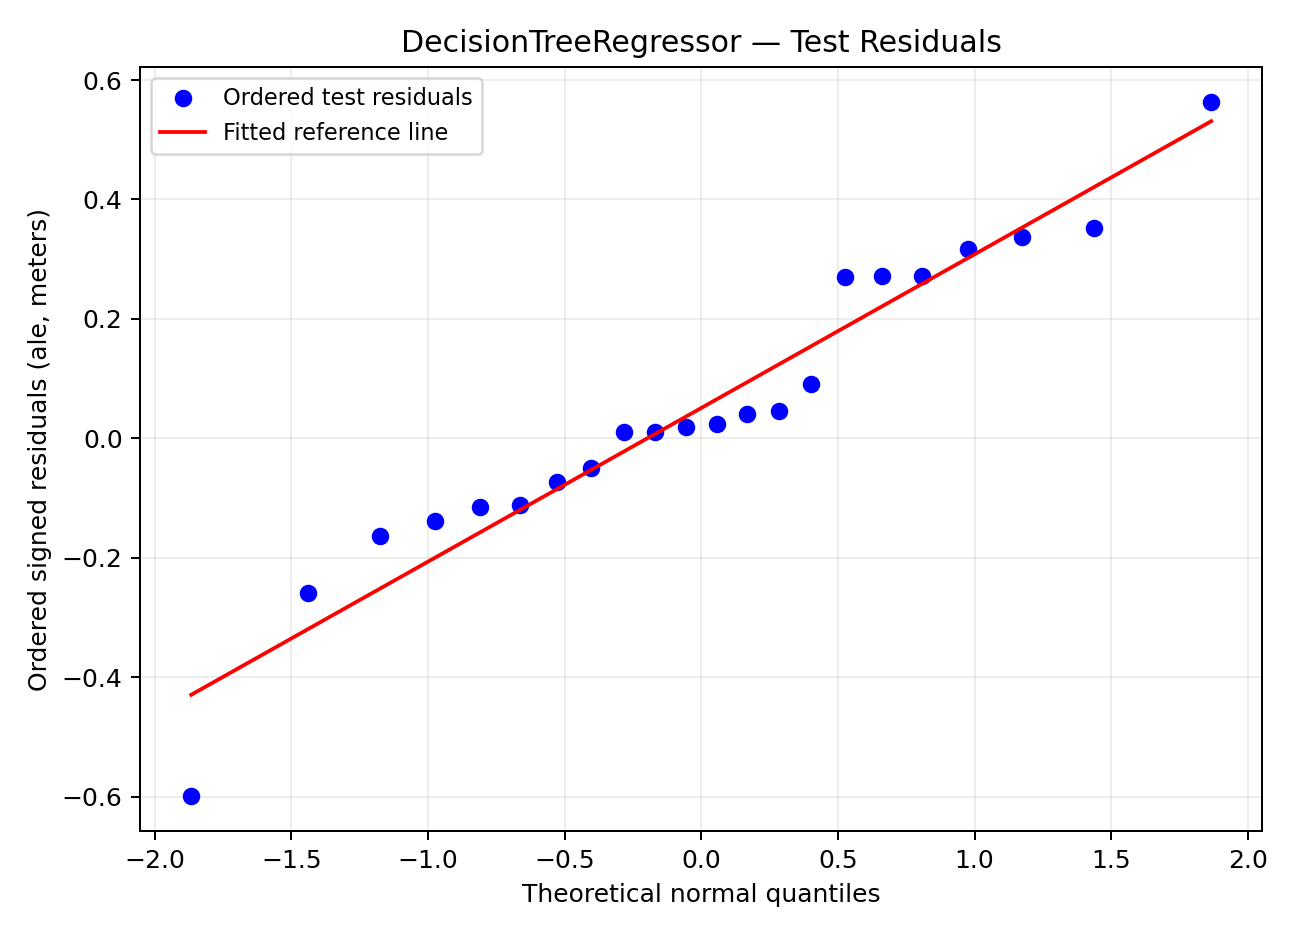
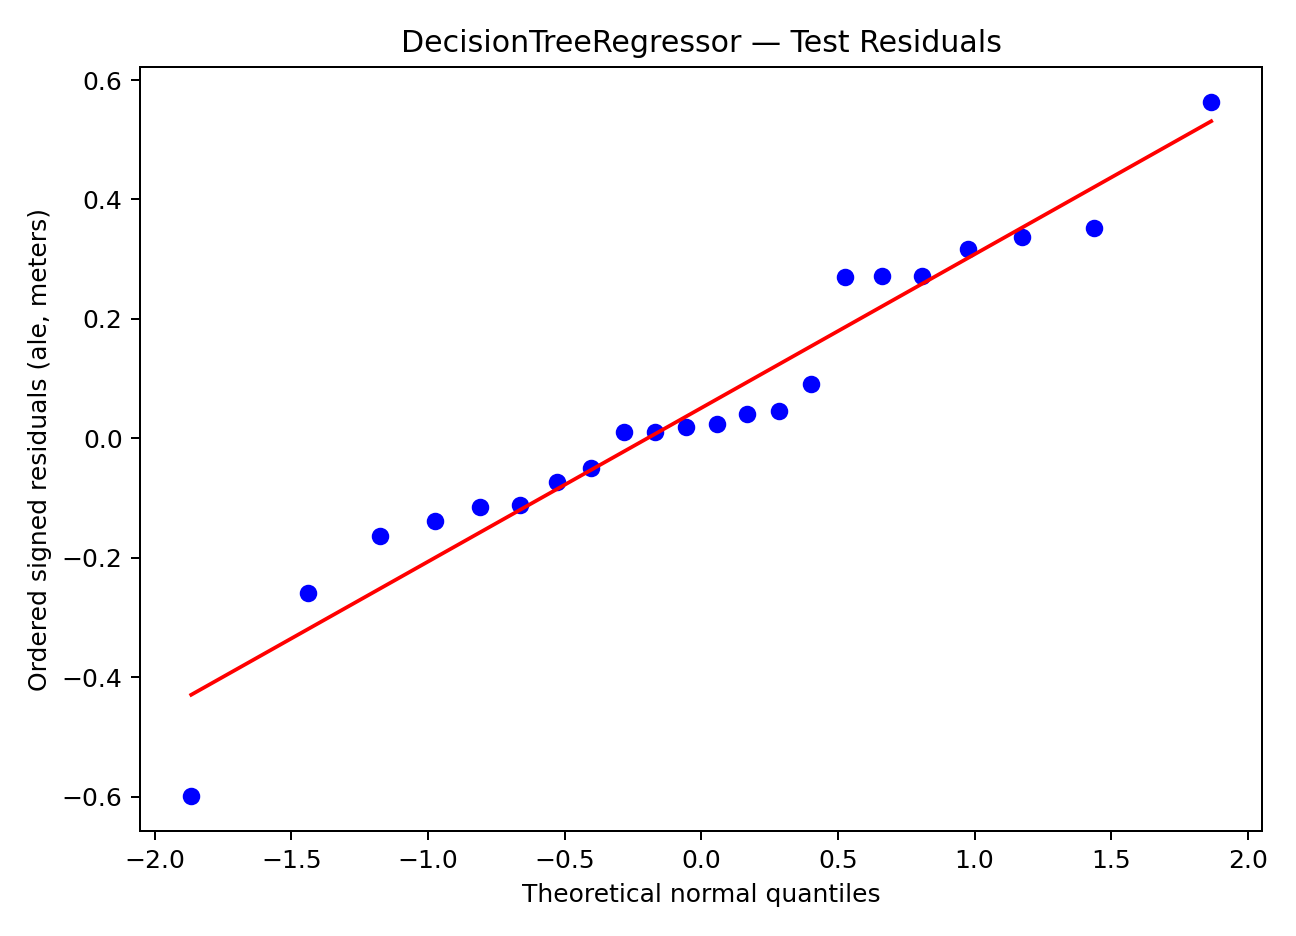
Trim homework scripts to the fixed experiments

Changed region(s): [[0.1235, 0.062, 0.3704, 0.1859]]

diff --git a/homework_1/Q5.py b/homework_1/Q5.py
@@ -1,15 +1,12 @@
 from pathlib import Path
-import hashlib
 
 import numpy as np
 import pandas as pd
-import sklearn
 
 import jax
 jax.config.update("jax_enable_x64", True)
 jax.config.update("jax_platforms", "cpu")
 import jax.numpy as jnp
-import jaxlib
 import optax
 import jax.scipy.stats as jstats
 from sklearn.datasets import load_breast_cancer
@@ -19,13 +16,12 @@ from sklearn.model_selection import train_test_split
 from sklearn.preprocessing import StandardScaler
 
 CONFIG = dict(seed=42, dtype=jnp.float64, learning_rate=0.01, batch_size=32,
-              epochs=1000, momentum=0, weight_decay=0, probability_clip_eps=1e-12)
+              epochs=1000, momentum=0, probability_clip_eps=1e-12)
 
 def logistic_probability(z):
     return jax.nn.sigmoid(z)
 
 def binary_cross_entropy(p, y):
-    assert p.ndim == y.ndim == 1 and p.shape == y.shape
     p_safe = jnp.clip(p, CONFIG['probability_clip_eps'], 1 - CONFIG['probability_clip_eps'])
     return -jnp.mean(y * jnp.log(p_safe) + (1 - y) * jnp.log(1 - p_safe))
 
@@ -39,132 +35,75 @@ def probit_loss(z, y):
     return binary_cross_entropy(probit_probability(z), y)
 
 def mse_loss(prediction, y):
-    assert prediction.ndim == y.ndim == 1 and prediction.shape == y.shape
     return jnp.mean((y - prediction) ** 2)
 
 def student_t_loss(prediction, y):
-    assert prediction.ndim == y.ndim == 1 and prediction.shape == y.shape
     return -jnp.mean(jstats.t.logpdf(y - prediction, df=5.0, loc=0.0, scale=1.0))
 
 def predict(params, X):
     return X @ params['w'] + params['b']
 
-def all_finite(tree):
-    return jnp.all(jnp.stack([jnp.all(jnp.isfinite(x)) for x in jax.tree_util.tree_leaves(tree)]))
-
-def train(name, X, y, objective):
+def train(X, y, objective):
     X, y = (jnp.asarray(X, dtype=CONFIG['dtype']), jnp.asarray(y, dtype=CONFIG['dtype']))
-    assert X.ndim == 2 and y.ndim == 1 and (X.shape[0] == y.shape[0])
-    if not bool(all_finite((X, y))):
-        raise FloatingPointError(name + ' has non-finite inputs or targets')
     params = {'w': jnp.zeros(X.shape[1], dtype=CONFIG['dtype']), 'b': jnp.array(0.0, dtype=CONFIG['dtype'])}
     optimizer = optax.sgd(learning_rate=CONFIG['learning_rate'], momentum=CONFIG['momentum'])
     state = optimizer.init(params)
     key = jax.random.PRNGKey(CONFIG['seed'])
-    losses = []
 
     def batch_loss(params, X_batch, y_batch):
         return objective(predict(params, X_batch), y_batch)
 
     @jax.jit
     def step(params, state, X_batch, y_batch):
-        loss, gradients = jax.value_and_grad(batch_loss)(params, X_batch, y_batch)
+        _, gradients = jax.value_and_grad(batch_loss)(params, X_batch, y_batch)
         updates, next_state = optimizer.update(gradients, state, params)
         next_params = optax.apply_updates(params, updates)
-        valid = all_finite((predict(params, X_batch), loss, gradients, next_params))
-        return (next_params, next_state, valid)
+        return next_params, next_state
 
-    @jax.jit
-    def full_training_loss(params):
-        prediction = predict(params, X)
-        loss = objective(prediction, y)
-        return (loss, all_finite((prediction, loss)))
-    for epoch in range(CONFIG['epochs']):
+    for _ in range(CONFIG['epochs']):
         key, shuffle_key = jax.random.split(key)
         order = jax.random.permutation(shuffle_key, len(y))
         for start in range(0, len(y), CONFIG['batch_size']):
             indices = order[start:start + CONFIG['batch_size']]
-            params, state, valid = step(params, state, X[indices], y[indices])
-            if not bool(valid):
-                raise FloatingPointError(f'{name}, epoch {epoch + 1}: non-finite batch prediction, loss, gradient, or updated parameter')
-        loss, valid = full_training_loss(params)
-        if not bool(valid):
-            raise FloatingPointError(name + ' has non-finite full-training predictions or loss')
-        losses.append(float(loss))
-    return (params, losses)
+            params, state = step(params, state, X[indices], y[indices])
+    return params
 
 FEATURE_COLUMNS = ["anchor_ratio", "trans_range", "node_density", "iterations"]
 TARGET_COLUMN = "ale"
 CSV_PATH = Path(__file__).resolve().parent / "data" / "mcs_ds_edited_iter_shuffled.csv"
 
 np.random.seed(CONFIG["seed"])
-print("Versions:", {"NumPy": np.__version__, "pandas": pd.__version__,
-                    "sklearn": sklearn.__version__, "JAX": jax.__version__,
-                    "jaxlib": jaxlib.__version__, "Optax": optax.__version__})
-print("SGD configuration:", CONFIG, "; backend:", jax.default_backend(), "; x64:", jax.config.x64_enabled)
-print("test_size:", 0.2, "random_state:", 42, "classification stratify:", True)
 
 cancer = load_breast_cancer()
 Xc = np.asarray(cancer.data, dtype=np.float64)
 yc = np.asarray(cancer.target, dtype=np.int64).reshape(-1)
-print("\nOriginal classification target_names:", cancer.target_names)
-print("Classification X/y shapes:", Xc.shape, yc.shape, "; dtypes:", Xc.dtype, yc.dtype)
-print("Classification missing values:", int(np.isnan(Xc).sum()), int(pd.isna(yc).sum()))
-assert Xc.shape == (569, 30) and np.array_equal(np.unique(yc), [0, 1])
-assert np.isfinite(Xc).all()
 ct, cv = train_test_split(np.arange(len(yc)), test_size=0.2, random_state=42, stratify=yc)
 
-if not CSV_PATH.is_file():
-    raise FileNotFoundError("Included real ALE CSV is missing: " + str(CSV_PATH)
-                            + "; no synthetic data are substituted.")
-csv_bytes = CSV_PATH.read_bytes()
 ale = pd.read_csv(CSV_PATH)
-print("\nALE source: Singh et al. (2020), UCI 844, https://doi.org/10.24432/C5ZP6R, CC BY 4.0")
-print("ALE shape:", ale.shape)
-print("ALE columns:", list(ale.columns))
-print("ALE dtypes:\n", ale.dtypes.to_string(), sep="")
-print("ALE missing values:\n", ale.isna().sum().to_string(), sep="")
-if ale.shape != (107, 6) or list(ale.columns) != FEATURE_COLUMNS + ["ale", "sd_ale"]:
-    raise ValueError("Unexpected ALE shape or schema; inspect the printed values. No data modified.")
-if not all(pd.api.types.is_numeric_dtype(ale[c]) for c in ale.columns):
-    raise TypeError("ALE columns must be numeric; no silent conversion is performed.")
-if ale.isna().any().any() or not np.isfinite(ale.to_numpy(dtype=np.float64)).all():
-    raise ValueError("ALE has missing or non-finite values; no rows are deleted or imputed.")
[1 lines of base64/hex data omitted]
-    raise ValueError("Official ALE CSV differs from the previously validated homework data.")
+print("ALE source: Singh et al. (2020), UCI 844, https://doi.org/10.24432/C5ZP6R, CC BY 4.0")
 Xr = ale.loc[:, FEATURE_COLUMNS].to_numpy(dtype=np.float64)
 yr = ale.loc[:, TARGET_COLUMN].to_numpy(dtype=np.float64).reshape(-1)
-print("Regression features:", FEATURE_COLUMNS, "; target:", TARGET_COLUMN, "; sd_ale ignored")
-print("Regression X/y shapes:", Xr.shape, yr.shape, "; original ale units: meters")
 rt, rv = train_test_split(np.arange(len(yr)), test_size=0.2, random_state=42)
-print("Classification train/test:", len(ct), len(cv), "; regression train/test:", len(rt), len(rv))
 
 c_scaler, r_scaler = StandardScaler().fit(Xc[ct]), StandardScaler().fit(Xr[rt])
 Xct, Xcv = c_scaler.transform(Xc[ct]), c_scaler.transform(Xc[cv])
 Xrt, Xrv = r_scaler.transform(Xr[rt]), r_scaler.transform(Xr[rv])
 yct, ycv, yrt, yrv = yc[ct], yc[cv], yr[rt], yr[rv]
 C0, R0 = LogisticRegression(max_iter=5000), LinearRegression()
-print("\nC0 actual parameters:", C0.get_params())
 C0.fit(Xct, yct)
 R0.fit(Xrt, yrt)
 
-C1, C1_losses = train("C1", Xct, yct, logistic_loss)
-C2, C2_losses = train("C2", Xct, yct, probit_loss)
-R1, R1_losses = train("R1", Xrt, yrt, mse_loss)
-R2, R2_losses = train("R2", Xrt, yrt, student_t_loss)
+C1 = train(Xct, yct, logistic_loss)
+C2 = train(Xct, yct, probit_loss)
+R1 = train(Xrt, yrt, mse_loss)
+R2 = train(Xrt, yrt, student_t_loss)
 
 Xcv_j, Xrv_j = jnp.asarray(Xcv, dtype=CONFIG["dtype"]), jnp.asarray(Xrv, dtype=CONFIG["dtype"])
 p1 = logistic_probability(predict(C1, Xcv_j))
 p2 = probit_probability(predict(C2, Xcv_j))
 r1, r2 = predict(R1, Xrv_j), predict(R2, Xrv_j)
-if not bool(all_finite((p1, p2, r1, r2))):
-    raise FloatingPointError("Non-finite test predictions/probabilities")
 c_predictions = [C0.predict(Xcv), np.asarray(p1 >= 0.5), np.asarray(p2 >= 0.5)]
 r_predictions = [R0.predict(Xrv), np.asarray(r1), np.asarray(r2)]
-for prediction in c_predictions:
-    assert prediction.ndim == 1 and prediction.shape == ycv.shape
-for prediction in r_predictions:
-    assert prediction.ndim == 1 and prediction.shape == yrv.shape and np.isfinite(prediction).all()
 accuracies = [accuracy_score(ycv, prediction) for prediction in c_predictions]
 maes = [mean_absolute_error(yrv, prediction) for prediction in r_predictions]
 classification = pd.DataFrame({"Model": ["C0 sklearn LogisticRegression", "C1 Logistic + BCE + SGD", "C2 Probit + BCE + SGD"],
@@ -179,9 +118,3 @@ print("\n" + result)
 result_dir = Path(__file__).resolve().parent / "results"
 result_dir.mkdir(exist_ok=True)
 (result_dir / "Q5.txt").write_text(result + "\n", encoding="utf-8")
-print("finite_checks: passed")
-print("Training loss:")
-for name, losses in [("C1", C1_losses), ("C2", C2_losses), ("R1", R1_losses), ("R2", R2_losses)]:
-    previous, recent = np.mean(losses[-200:-100]), np.mean(losses[-100:])
-    print(f"{name}: final loss={losses[-1]:.10f}; mean epochs 801-900={previous:.10f}; "
-          f"mean epochs 901-1000={recent:.10f}; change={recent - previous:+.10f}")

diff --git a/homework_1/Q4.py b/homework_1/Q4.py
@@ -7,7 +7,6 @@ matplotlib.use("Agg")
 import matplotlib.pyplot as plt
 from scipy import stats
 from sklearn.linear_model import LinearRegression
-from sklearn.metrics import mean_absolute_error
 from sklearn.model_selection import train_test_split
 from sklearn.pipeline import make_pipeline
 from sklearn.preprocessing import StandardScaler
@@ -20,25 +19,13 @@ target_column = "ale"
 alpha = 0.05
 
 csv_path = Path(__file__).resolve().parent / "data" / CSV_NAME
-if not csv_path.is_file():
-    raise FileNotFoundError(f"Real UCI ALE data missing: {csv_path}. No synthetic data is used.")
 df = pd.read_csv(csv_path)
 
 print("ALE source: Singh et al. (2020), UCI 844, https://doi.org/10.24432/C5ZP6R, CC BY 4.0")
-print("ALE shape:", df.shape)
-print("Columns:", df.columns.tolist())
-print("Missing values:\n" + df.isna().sum().to_string())
-if df.shape != (107, 6) or df.columns.tolist() != feature_columns + [target_column, "sd_ale"]:
-    raise ValueError("The downloaded file differs from the published schema; no data were modified.")
-if not all(pd.api.types.is_numeric_dtype(df[c]) for c in feature_columns + [target_column]):
-    raise TypeError("The predictors and target must be numeric.")
 X = df[feature_columns]
 y = df[target_column].to_numpy(dtype=float)
-if not np.isfinite(X.to_numpy()).all() or not np.isfinite(y).all():
-    raise ValueError("Non-finite or missing model inputs; no imputation or row removal is performed.")
 
 X_train, X_test, y_train, y_test = train_test_split(X, y, test_size=0.2, random_state=42)
-print(f"Training/test samples: {len(y_train)}/{len(y_test)}")
 models = {
     "LinearRegression": LinearRegression(),
     "SVR (RBF)": make_pipeline(
@@ -56,24 +43,12 @@ rows = []
 for (name, model), filename in zip(models.items(), filenames):
     model.fit(X_train, y_train)
     prediction = np.asarray(model.predict(X_test), dtype=float)
-    if y_test.ndim != 1 or prediction.ndim != 1 or prediction.shape != y_test.shape:
-        raise ValueError(f"{name}: predictions and targets must be aligned one-dimensional arrays.")
     residuals = y_test - prediction
-    if not np.isfinite(residuals).all() or residuals.size < 8 or np.var(residuals) == 0:
-        raise ValueError(f"{name}: normaltest needs finite, nonconstant residuals and at least 8 values.")
-    try:
-        test = stats.normaltest(residuals)
-        statistic, p_value = float(test.statistic), float(test.pvalue)
-        if not np.isfinite(statistic) or not np.isfinite(p_value):
-            raise ValueError("normaltest returned a non-finite result")
-        decision = ("Reject normality at the 5% level." if p_value < alpha
-                    else "Fail to reject normality at the 5% level.")
-    except Exception as error:
-        statistic, p_value = np.nan, np.nan
-        decision = f"Normality test unavailable: {error}"
-        print(name, decision)
+    test = stats.normaltest(residuals)
+    statistic, p_value = float(test.statistic), float(test.pvalue)
+    decision = ("Reject normality at the 5% level." if p_value < alpha
+                else "Fail to reject normality at the 5% level.")
     rows.append({"model": name, "n_test": len(residuals),
-                 "MAE": mean_absolute_error(y_test, prediction),
                  "normaltest_statistic": statistic, "p_value": p_value,
                  "decision_at_0.05": decision})
 
@@ -82,17 +57,13 @@ for (name, model), filename in zip(models.items(), filenames):
     ax.set_title(f"{name} — Test Residuals")
     ax.set_xlabel("Theoretical normal quantiles")
     ax.set_ylabel("Ordered signed residuals (ale, meters)")
-    ax.get_lines()[0].set_label("Ordered test residuals")
-    ax.get_lines()[1].set_label("Fitted reference line")
-    ax.legend(loc="upper left", fontsize=9)
-    ax.grid(alpha=0.22)
     fig.tight_layout()
     fig.savefig(figure_dir / f"Q4_{filename}.png", dpi=180)
     plt.close(fig)
 
 summary = pd.DataFrame(rows)
 result = "Held-out test residuals; alpha=0.05\n\n" + summary.to_string(index=False, formatters={
-    "MAE": "{:.9f}".format, "normaltest_statistic": "{:.9f}".format,
+    "normaltest_statistic": "{:.9f}".format,
     "p_value": "{:.9e}".format,
 })
 print("\n" + result)
